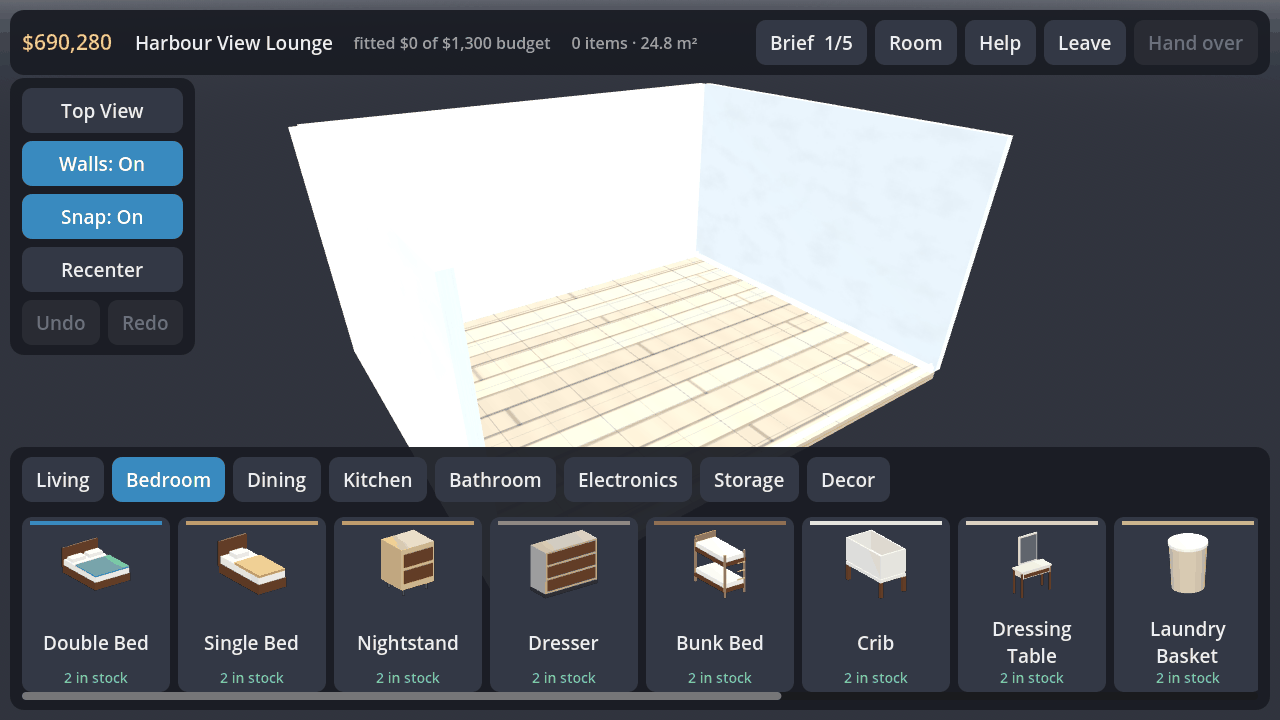
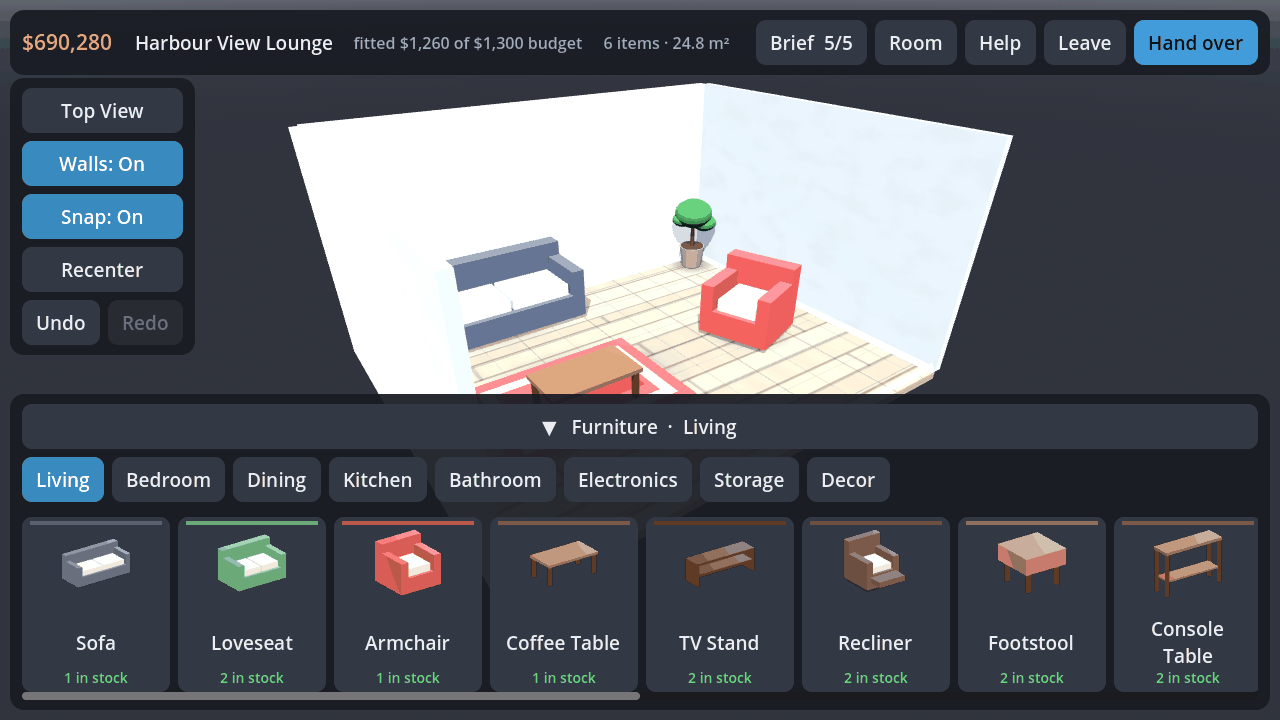
Keep the catalogue behind a bar until it is wanted
The tray sat open across the bottom of every room, and on a phone in
landscape it took a third of the screen for something the player only needs
while they are shopping. Most of the time they are dragging what is already
in the room, and the room was the part being squeezed.

It now opens closed. All that shows is a full-width Furniture bar; tapping it
brings the categories and the pieces up, and tapping it again — or pressing
Back, which now unwinds the tray before it clears a selection — puts them
away. The bar carries the current category while it is open, so it reads as
the thing it belongs to rather than a stray button.

Claude-Session: https://claude.ai/code/session_01YMH97cUf6dq31iG21oXLDc

diff --git a/README.md b/README.md
@@ -17,7 +17,7 @@ Flipper's loop, shrunk to a phone screen.
 
 | Your stock | Fitting the room out |
 |---|---|
-| ![The warehouse listing everything owned](docs/screenshot-stock.png) | ![A finished reading room with the bookshelves against the walls](docs/screenshot-job.png) |
+| ![The warehouse listing everything owned](docs/screenshot-stock.png) | ![A finished lounge with the catalogue tucked away](docs/screenshot-job.png) |
 
 ![The hand-over screen: a star rating, what the client noticed, and what it paid](docs/screenshot-stars.png)
 
@@ -143,11 +143,17 @@ the **Buy all** button next to *Start job* fills the whole basket in one tap —
 paint the brief calls for.
 
 Take the job and you land in the room with the brief checklist on the right; it re-ticks
-itself live as you work. The tray along the bottom is the catalogue, split by category, and
-every piece shows a picture of itself with how many you have left rather than a price. Once
-every line is ticked, **Hand over** collects the fee — and the client's verdict.
+itself live as you work. Once every line is ticked, **Hand over** collects the fee — and the
+client's verdict.
 
-![The bedroom tray, every piece shown as a rendered thumbnail](docs/screenshot-tray.png)
+The catalogue lives behind the **Furniture** bar along the bottom, closed to begin with so
+the room has the screen to itself. Tap it and the tray comes up: the pieces split by
+category, each showing a picture of itself and how many you have left rather than a price.
+Tap the bar again — or press Back — to put it away.
+
+| Closed, which is how a room opens | Open |
+|---|---|
+| ![A finished lounge with the whole screen to itself and one Furniture bar at the bottom](docs/screenshot-job.png) | ![The tray open, every piece a rendered thumbnail](docs/screenshot-tray.png) |
 
 Nothing in the project is an art file, so those thumbnails are rendered rather than drawn:
 one small off-screen viewport mounts a piece, draws it once, and keeps the result for the
@@ -184,7 +190,7 @@ checklist gets you paid — arranging the room properly is what earns the third 
 | Pinch | Zooms |
 | Two-finger drag | Pans across the floor |
 | Double tap | Brings the camera to what you tapped |
-| Back button | Closes the dialog, then clears the selection, then leaves |
+| Back button | Closes the dialog, then the catalogue, then clears the selection, then leaves |
 
 **Undo** and **Redo** on the left go back through everything and move furniture between the
 room and your stock as they go. The bar under a selection rotates in 15° steps, flips 180°,
